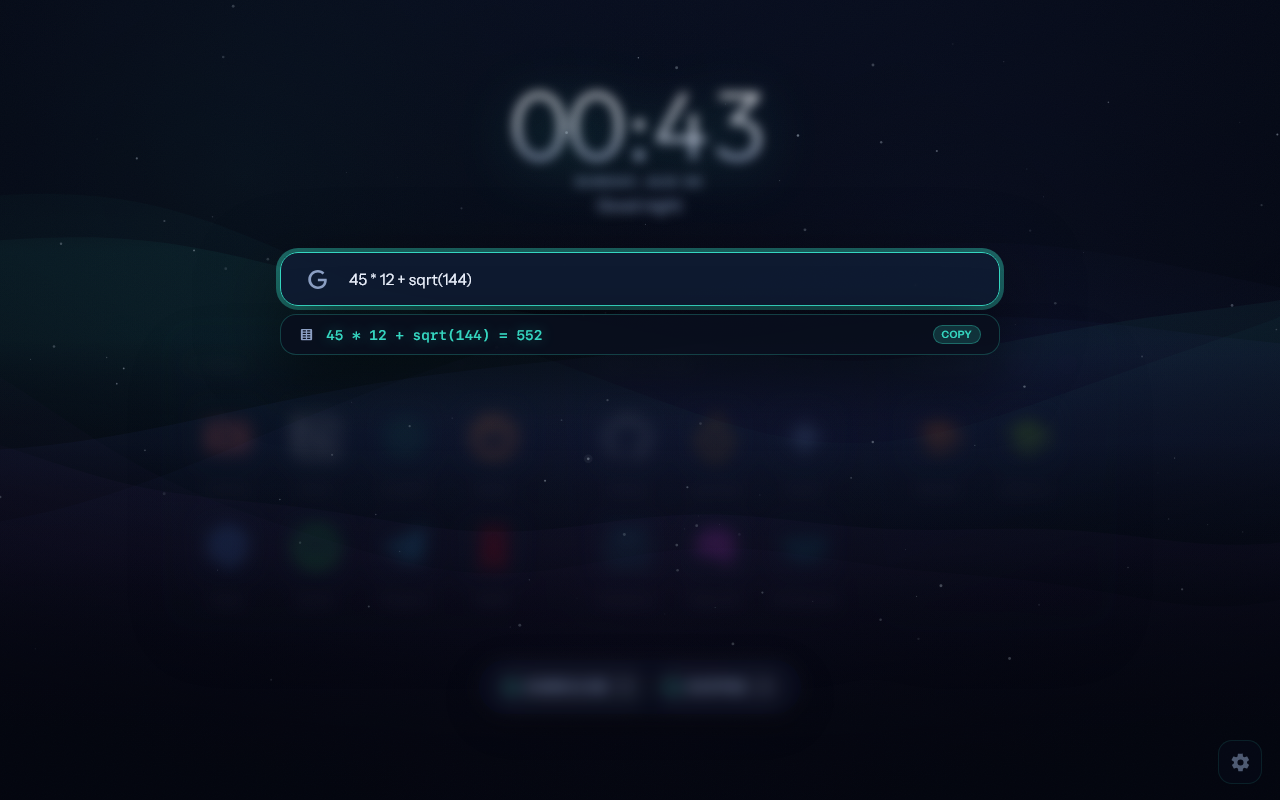
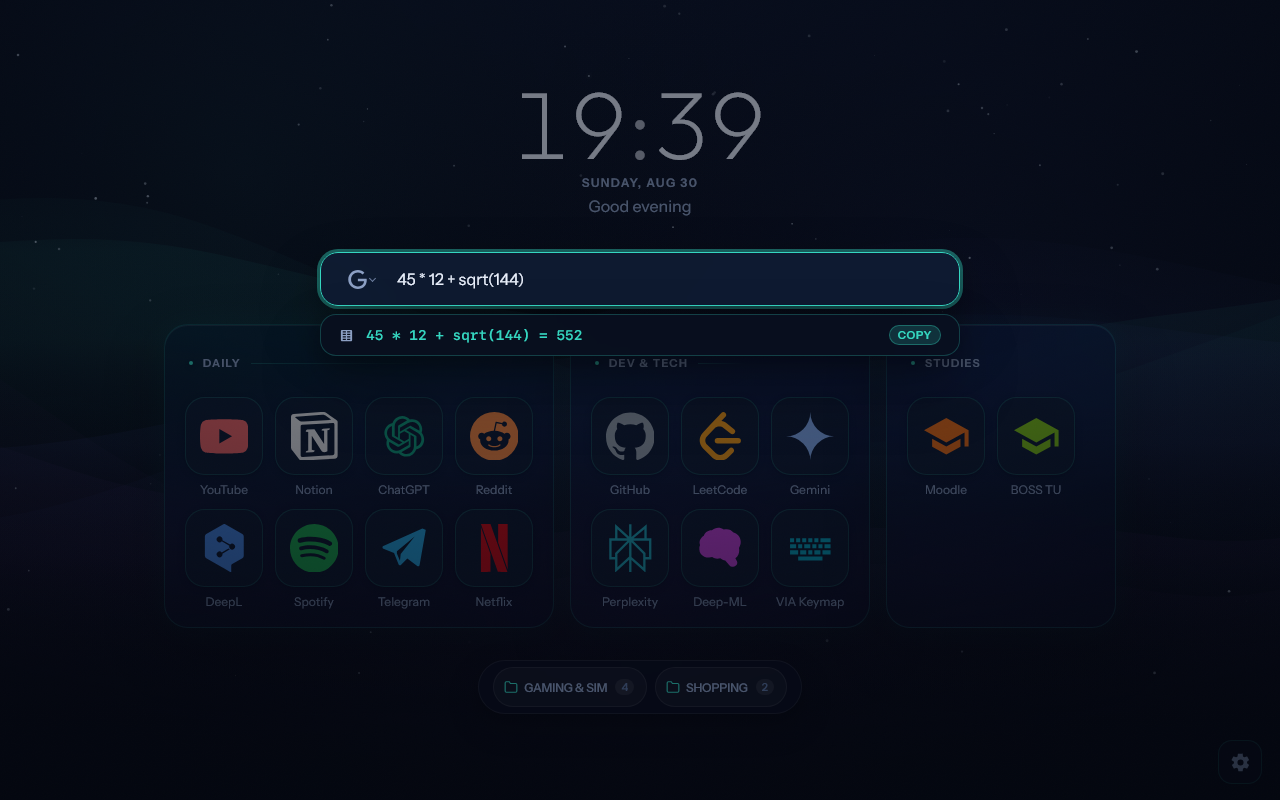
release: 2.3.0 — docs, artwork and the optional bookmarks permission
The README still advertised four glass sliders and the store listing still
named two scenes that no longer exist. Both describe what ships now, including
folders that follow the browser and pointing search at any engine.

PRIVACY.md gains the optional bookmarks permission: what it is asked for, when
it is asked for — on the click that links a folder, never at install — that it
is only ever read from, and what revoking it does.

Every screenshot and both GIFs regenerated from the running product, which is
the point of keeping the generator: the board no longer glows, the clock is
plain type, and the background section offers five scenes that each draw
something.

diff --git a/src/js/app.js b/src/js/app.js
@@ -3,7 +3,7 @@
    ═══════════════════════════════════════════════════════════════════ */
 
 const DEFAULT_CONFIG = {
-  version: "2.2.0",
+  version: "2.3.0",
   theme: "aurora-void",
   colorMode: "dark",
   bgMode: "aurora",

diff --git a/README.md b/README.md
@@ -24,13 +24,14 @@ There's a Dark / Light / Auto switch (Auto follows your OS and flips live), and 
 
 ## What else it does
 
+- **Folders that follow the browser.** Point a folder at one of your browser's bookmark folders and it mirrors it, one way, so the browser stays the owner of the data and nothing here can lose it. The permission is optional and asked for on the click that links a folder, so installing Nordlys shows no prompt about reading bookmarks.
 - **Bookmarks as folders.** Drag tiles between folders, drag whole folders around, resize a folder's column count by pulling its corner, fold folders into a small dock at the bottom. Right click anything to edit it in place.
 - **Icons your way.** A built-in vector library with auto-detection by domain, site favicons, any image URL, a local file, or a monogram. There's a small cropper studio with pan, zoom, and rotate for when a logo comes with junk around it.
 - **Search that does math.** Type `45 * 12 + sqrt(144)` and the answer appears above the suggestions, one click to copy. Ten engines to pick from (Google, DuckDuckGo, Bing, Brave, Ecosia, Yandex, YouTube, GitHub, Reddit, Wikipedia), bang shortcuts like `!gh` and `!w`, plus your own bookmarks and recent searches in the same dropdown.
 - **Backgrounds.** One living scene — the aurora the product is named after — and four still compositions built from the theme's own colours: Horizon, Bloom, Corner, Veil. The still ones are pure CSS, so they cost nothing to hold and the glass above them stops re-blurring every frame. Motion and Atmosphere dial the aurora down to a slow shimmer or almost nothing. Your own image or looping video works too, stored locally in IndexedDB, with blur and dim.
 - **Type.** Three slots: the clock and headings, the interface, and monospace. Bundled faces, or the fonts already installed on your machine.
 - **Icons that stay visible.** Each icon is measured against the plate behind it, and only the ones that would vanish get re-toned, so a coloured logo keeps its colour and a black mark on a black theme doesn't disappear. Overridable per bookmark.
-- **Glass tuning.** Blur radius, saturation, translucency, border sheen, corner radius, tile size, grid spacing, icon shape, glow, hover animation. Every slider updates the page while you drag it.
+- **Surfaces.** Glass at three levels — frosted, subtle, none — rather than four raw filter sliders, because those were a decision nobody made handed over in the form the renderer happens to take, and they reached states where text stopped being readable. Corner radius, tile size, spacing, icon shape, ambient glow and hover style stay as they were. Every control updates the page as you move it.
 - **8 languages.** English, Russian, Spanish, German, French, Japanese, Chinese, Turkish.
 - **Import and export.** Netscape HTML bookmarks from any browser in, JSON or HTML back out.
 

diff --git a/docs/store-listing.md b/docs/store-listing.md
@@ -42,9 +42,11 @@ Icons come from a built-in vector set that recognises most sites by domain, or f
 
 Type is split into three slots: the clock and headings, the interface, and monospace. Choose from the bundled faces or from the fonts already installed on your computer.
 
-Four canvas scenes: Aurora, Cosmos, Mesh and Particles. Motion and Atmosphere sliders apply to all of them, so the background can be a slow shimmer or almost nothing. Your own image or a looping video works too, stored locally.
+One living scene — the aurora it is named after — and four still compositions built from the theme's own colours: Horizon, Bloom, Corner, Veil. The still ones are plain CSS, so they cost nothing to hold. Motion and Atmosphere dial the aurora down to a slow shimmer or almost nothing. Your own image or a looping video works too, stored locally.
 
-Search covers ten engines with bang shortcuts, mixes in your own bookmarks and recent searches, and does arithmetic: type 45 * 12 + sqrt(144) and the answer sits above the suggestions.
+Search covers ten engines with bang shortcuts, or any engine you like by pasting its address with %s where the query goes. It mixes in your own bookmarks and recent searches, and does arithmetic: type 45 * 12 + sqrt(144) and the answer sits above the suggestions.
+
+A folder can follow one of your browser's bookmark folders instead of being filled in by hand. It mirrors one way, so the browser keeps the data — which also means an update here cannot lose it. Nordlys asks for permission to read bookmarks at the moment you link a folder, never at install.
 
 No account, no analytics, no telemetry, no remote code. Settings and bookmarks live in local storage, and the only requests are search suggestions from the engine you chose and the favicons you ask for. Export the lot to JSON whenever you want.
 
@@ -64,6 +66,7 @@ Answer the dashboard's justification fields from `PRIVACY.md`:
 | `unlimitedStorage` | Holds user wallpaper images and video loops in IndexedDB. |
 | `favicon` | Draws site icons from Chrome's local favicon cache. |
 | Host permissions | Search-suggestion endpoints for the ten engines, plus `images.weserv.nl` when a pasted icon URL blocks cross-origin loading. |
+| `bookmarks` (optional) | Requested only when the user points a folder at a browser bookmark folder, and only read from. Never requested at install. |
 | Remote code | None. The CSP is `script-src 'self'; object-src 'self'`. |
 | Data collection | None. Declare no collected data. |
 

diff --git a/PRIVACY.md b/PRIVACY.md
@@ -2,7 +2,7 @@
 
 **Effective Date:** August 16, 2026
 **Last Updated:** August 30, 2026
-**Version:** 2.2.0
+**Version:** 2.3.0
 
 Nordlys ("the extension", "we", or "our") is designed with a strict **Privacy-by-Architecture** principle. Nordlys is a client-side, offline-capable New Tab override extension.
 
@@ -53,6 +53,7 @@ In accordance with the Principle of Least Privilege, Nordlys requests only the m
 - **`storage`**: Used strictly to persist user customizations (bookmarks, themes, folders) locally.
 - **`unlimitedStorage`**: Allows saving custom user wallpaper images and video loops inside client-side IndexedDB without hitting strict browser storage limits.
 - **`favicon`**: Allows displaying website favicons from Chrome's local favicon cache on bookmark tiles.
+- **`bookmarks` (optional, never requested at install)**: Only asked for at the moment you point a folder at one of your browser's bookmark folders, and only used to read that folder's contents so the tiles can mirror it. Nordlys never writes to your browser bookmarks and never sends them anywhere. Revoking it in `chrome://extensions` stops the mirroring; the tiles already on screen stay.
 - **Narrow host permissions**: Only the search-suggestion endpoints listed in section 3 plus `images.weserv.nl`. Nordlys cannot read, alter, or transmit data from web pages you visit.
 - **No `tabs` History Access**: Nordlys does not inspect your browsing history, active tabs, or open URLs.
 
